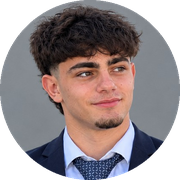
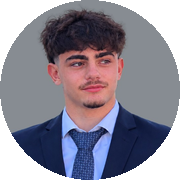
Swap in the higher-quality portrait and add a language switch to the menu

diff --git a/public/iago.css b/public/iago.css
@@ -3,8 +3,8 @@
 
 .profile-picture {
    background-image: url("assets/iago-entero.png");
-   background-size: 180%;
-   background-position: 48% 4%;
+   background-size: 142%;
+   background-position: 50% 2%;
 }
 
 /* Matches the flat backdrop of iago-entero.png so the photo edges disappear */
@@ -219,6 +219,68 @@
       transform: none;
       font-size: .95em;
    }
+}
+
+/* The panel is only as wide as its longest link. Spanish labels ("Proyectos")
+   are longer than the English ones, so reserve that width in both languages. */
+@media screen and (min-width: 541px) {
+   .fixed-nav .nav-row ul::after {
+      content: "Proyectos";
+      display: block;
+      width: max-content;
+      height: 0;
+      overflow: hidden;
+      visibility: hidden;
+      pointer-events: none;
+      white-space: nowrap;
+      box-sizing: content-box;
+      padding: 0 20px;
+      font-size: calc(clamp(3.25em, 5vw, 4em) * .875);
+      line-height: 0;
+   }
+}
+
+/* Language sits above Socials in the hamburger, same label scale, not inside the links */
+.fixed-nav .social-row {
+   display: flex;
+   flex-direction: column;
+   align-items: flex-start;
+}
+
+.fixed-nav .nav-lang {
+   margin-bottom: 2.6em;
+}
+
+.fixed-nav .nav-lang h5 {
+   margin-bottom: 1em;
+}
+
+.fixed-nav .lang-options {
+   display: flex;
+   gap: 1.15em;
+   font-size: 1.05em;
+}
+
+.fixed-nav .lang-option {
+   padding: 0;
+   border: 0;
+   background: none;
+   color: var(--color-white);
+   font: inherit;
+   letter-spacing: .04em;
+   cursor: pointer;
+   opacity: .4;
+   transition: opacity .3s ease;
+}
+
+.fixed-nav .lang-option:hover,
+.fixed-nav .lang-option:focus-visible {
+   opacity: .8;
+   outline: none;
+}
+
+.fixed-nav .lang-option.is-active {
+   opacity: 1;
 }
 
 /* The badge reads "Awwwards Jury": not a credential Iago holds */

diff --git a/about/index.html b/about/index.html
@@ -171,6 +171,13 @@
                 </div>
                 <div class="row social-row">
                     <div class="stripe"></div>
+                    <div class="nav-lang">
+                        <h5>Language</h5>
+                        <div class="lang-options" role="group" aria-label="Language">
+                            <button type="button" class="lang-option" data-lang="es">ES</button>
+                            <button type="button" class="lang-option" data-lang="en">EN</button>
+                        </div>
+                    </div>
                     <div class="socials">
                         <h5>Socials</h5>
                         <ul>

diff --git a/contact/index.html b/contact/index.html
@@ -171,6 +171,13 @@
                 </div>
                 <div class="row social-row">
                     <div class="stripe"></div>
+                    <div class="nav-lang">
+                        <h5>Language</h5>
+                        <div class="lang-options" role="group" aria-label="Language">
+                            <button type="button" class="lang-option" data-lang="es">ES</button>
+                            <button type="button" class="lang-option" data-lang="en">EN</button>
+                        </div>
+                    </div>
                     <div class="socials">
                         <h5>Socials</h5>
                         <ul>

diff --git a/work/index.html b/work/index.html
@@ -216,6 +216,13 @@
             </div>
             <div class="row social-row">
                <div class="stripe"></div>
+               <div class="nav-lang">
+                  <h5>Language</h5>
+                  <div class="lang-options" role="group" aria-label="Language">
+                     <button type="button" class="lang-option" data-lang="es">ES</button>
+                     <button type="button" class="lang-option" data-lang="en">EN</button>
+                  </div>
+               </div>
                <div class="socials">
                   <h5>Socials</h5>
                   <ul>

diff --git a/index.html b/index.html
@@ -275,6 +275,13 @@
         <div class="row social-row">
           <div class="stripe">
           </div>
+          <div class="nav-lang">
+            <h5>Language</h5>
+            <div class="lang-options" role="group" aria-label="Language">
+              <button type="button" class="lang-option" data-lang="es">ES</button>
+              <button type="button" class="lang-option" data-lang="en">EN</button>
+            </div>
+          </div>
           <div class="socials">
             <h5>
               Socials
